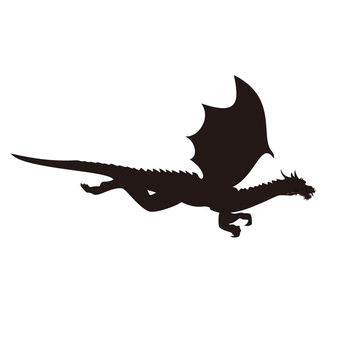
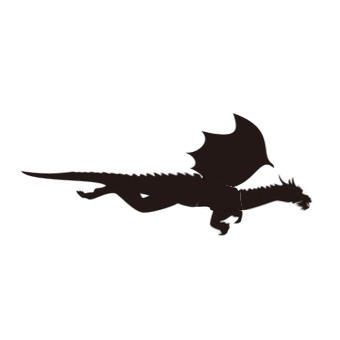
add dragon sprite

Changed region(s): [[0.0294, 0.2059, 0.9412, 0.7059], [0.4706, 0.5882, 0.5882, 0.6176]]

diff --git a/components/dragon.js b/components/dragon.js
@@ -1,17 +1,19 @@
 export let dragonX = 25;
 export let dragonY = 20;
 import {terrainPointsY} from "./terrain.js"
+
   let dragonVelocity = 0;
   let dragonVelocityX = 0;
   let isDragonDive = false;
   let isDragonDash = false;
   let dragonIdleSprite = [];
+  let spriteIndex = 1;
 
 export const initDragon = () => {
   
   for (let i = 0; i < 4; i++){
   	let sprite = new Image;
-  	sprite.src=`frame${i+1}.png`;
+  	sprite.src=`frame${i}.png`;
   	dragonIdleSprite.push(sprite);	
   }
   
@@ -26,13 +28,18 @@ export const initDragon = () => {
   dragonVelocityX = 10;
   isDragonDash=true;
   }});
+
+	setInterval(()=>{
+		spriteIndex++;
+	},100);
 }
 
 export const drawDragon = () => {	
+
     const ctx = canvas.getContext("2d");
-	ctx.strokeStyle="white";
-	ctx.lineWidth = 5;
-	ctx.strokeRect(dragonX,dragonY,100,100);
+	let dragonIndex = spriteIndex % 4;
+	ctx.drawImage(dragonIdleSprite[dragonIndex],dragonX,dragonY,100,100);
+
 }
 
 export const tickDragon = () => {

diff --git a/canvas.js b/canvas.js
@@ -11,7 +11,7 @@ window.addEventListener("load", () => {
   
   const canvas = document.getElementById("canvas");
   const ctx = canvas.getContext("2d");
-
+ 
   ctx.canvas.width = window.innerWidth;
   ctx.canvas.height = window.innerHeight;
   let deltaTime = 1;
